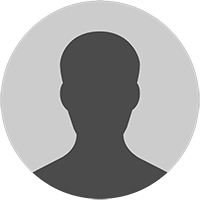
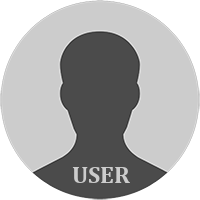
added database models

Changed region(s): [[0.36, 0.81, 0.66, 0.93]]

diff --git a/static/scripts/test.js b/static/scripts/test.js
@@ -100,9 +100,13 @@ function submit() {
       {
        if (radios[j].checked)
        {
-        questions[i][4] = radios[j].value;
-        break;
+         questions[i][4] = radios[j].value;
+         break;
        }
+      }
+      console.log(questions[i][4]);
+      if(questions[i][4] === undefined) {
+        questions[i][4] = "blank";
       }
     }
   }
@@ -122,7 +126,7 @@ function submit() {
   for (var i = 0; i < numOfQuestions; i++) {
     console.log("User answer", i , ": ", questions[i][4]);
   }
-  testQuestions.innerHTML = "<div class=questionContainer id='resultsDiv'><span class='questionHeader'> Your score: " + correct + "/" + numOfQuestions + " </span>" +
+  testQuestions.innerHTML = "<div class=questionContainer id='resultsDiv'><span class='questionHeader'> You got " + correct + " out of " + numOfQuestions + " questions correct. </span>" +
                             "</div>";
 
   var questionObj0 = toObject(questions[0]);

diff --git a/static/scripts/script.js b/static/scripts/script.js
@@ -35,12 +35,26 @@ $(document).ready(function() {
     }
   }
 
-  if(current_user_avatar != "None") {
-    AvatarPic.innerHTML = "<img src=\""+ current_user_avatar +"\">";
+  if(current_user_admin == "True") {
+    if(current_user_avatar != "None") {
+      AvatarPic.innerHTML = "<img class='adminImg' src=\""+ current_user_avatar +"\">";
+    }
+    else if (current_user_avatar == "None") {
+      AvatarPic.innerHTML = "<img class='adminImg' src= \"/static/imgs/admin.png\" >";
+    }
   }
-  else if (current_user_avatar == "None") {
-    AvatarPic.innerHTML = "<img src= \"/static/imgs/user.png\" >";
+
+  else {
+    if(current_user_avatar != "None") {
+      AvatarPic.innerHTML = "<img class='userImg' src=\""+ current_user_avatar +"\">";
+    }
+    else if (current_user_avatar == "None") {
+      AvatarPic.innerHTML = "<img class='userImg' src= \"/static/imgs/user.png\" >";
+    }
   }
+
+
+
 
 
 

diff --git a/templates/account.html b/templates/account.html
@@ -28,7 +28,8 @@
     <div class="topAccInfo">
       <div id="AvatarPic" class="avatarPic"></div>
       <div class = "accountInfo">
-        <h1> {{ current_user.username }} </h1>
+        <h1>Name: {{ current_user.username }} </h1>
+        <h1>Account created: {{ current_user.date }} </h1>
       </div>
       <div class = "accountOptions">
         <button id="passBtn" class="accButton w3-button w3-round-xlarge">Change Password</a>
@@ -82,4 +83,6 @@
   {{ super() }}
   <script src="{{url_for('static', filename='scripts/script.js')}}"></script>
   <script type="text/javascript"> var current_user_avatar = "{{ current_user.avatar_link }}"; </script>
+  <script type="text/javascript"> var current_user_admin = "{{ current_user.is_admin }}"; </script>
+
 {% endblock %}

diff --git a/static/css/styles.css b/static/css/styles.css
@@ -95,6 +95,7 @@ html, body, .all {
 	margin: 0 auto;
 	width: 900px;
 	background-color: white;
+	border-radius: 3px;
 }
 
 .alert-warning {
@@ -755,19 +756,29 @@ box-shadow: none;
 	height: 200px;
 	margin-top: 30px;
 	border-radius: 50%;
+
 }
 
-.avatarPic img {
+.userImg {
 	max-width: 200px;
 	max-height: 200px;
 	min-width: 200px;
 	min-height: 200px;
 	border-radius: 50%;
+	border: #3187DD 5px solid;
+}
+
+.adminImg {
+	max-width: 200px;
+	max-height: 200px;
+	min-width: 200px;
+	min-height: 200px;
+	border-radius: 50%;
+	border: #ff5242 5px solid;
 }
 
 .accountInfo {
 	display: inline-block;
-	background-color: green;
 	width: 400px;
 	height: 100px;
 	vertical-align: top;

diff --git a/project.py b/project.py
@@ -7,7 +7,7 @@ from wtforms.validators import DataRequired, Regexp, EqualTo, Email, ValidationE
 from werkzeug.security import generate_password_hash, check_password_hash
 from flask_login import UserMixin, LoginManager, login_required, login_manager, login_user, logout_user, current_user
 from flask_bootstrap import Bootstrap
-import json
+import json, time, datetime
 
 ###########################################
 ##################CONFIG###################
@@ -31,24 +31,16 @@ login_manager.login_view = 'login.html'
 ##################MODELS###################
 ###########################################
 
-class Role(db.Model):
-    __tablename__ = 'roles'
-    id = db.Column(db.Integer, primary_key=True)
-    username = db.Column(db.String(64), unique=True)
-    users = db.relationship('User', backref='role', lazy='dynamic')
-
-    def __repr__(self):
-        return '<Role %r>' % self.name
-
-
 class User(UserMixin, db.Model):
     __tablename__ = 'users'
     id = db.Column(db.Integer, primary_key=True)
     email = db.Column(db.String(64), unique = True, index = True)
-    username = db.Column(db.String(64), unique=True, index=True)
-    role_id = db.Column(db.Integer, db.ForeignKey('roles.id'))
+    username = db.Column(db.String(64), index=True)
     password_hash = db.Column(db.String(128))
     avatar_link = db.Column(db.String(255))
+    date = db.Column(db.String(64))
+    is_admin = db.Column(db.Boolean)
+    tests = db.relationship('Test', backref='user', lazy='dynamic')
 
     @property
     def password(self):
@@ -64,6 +56,23 @@ class User(UserMixin, db.Model):
     def __repr__(self):
         return '<User %r>' % self.username
 
+class Test(db.Model):
+    __tablename__ = 'tests'
+    id = db.Column(db.Integer, primary_key=True)
+    timestamp = db.Column(db.DateTime, index=True, default=datetime.datetime.now)
+    percentage = db.Column(db.Integer)
+    user_id = db.Column(db.Integer, db.ForeignKey('users.id'))
+    questions = db.relationship('Question', backref='test', lazy='dynamic')
+
+class Question(db.Model):
+    __tablename__ = 'questions'
+    id = db.Column(db.Integer, primary_key=True)
+    question_number = db.Column(db.Integer)
+    question = db.Column(db.Text)
+    correct_answer = db.Column(db.Text)
+    user_answer = db.Column(db.Text)
+    correct = db.Column(db.Boolean)
+    test_id = db.Column(db.Integer, db.ForeignKey('tests.id'))
 
 # db.create_all()
 
@@ -75,10 +84,6 @@ class User(UserMixin, db.Model):
 def index():
     return render_template('index.html')
 
-@app.route('/index', methods=['GET', 'POST'])
-def index2():
-    return render_template('index.html')
-
 @app.route('/learn', methods=['GET', 'POST'])
 def learn():
     return render_template('learn.html')
@@ -87,9 +92,14 @@ def learn():
 def test():
     if request.method == 'POST':
         questions = request.get_json()
+        correct = 0
         for i in range(0, 10):
-            print(questions[i])
-            print("\n")
+            if questions[i]['correct'] == 1:
+                correct += 1
+        test = Test(percentage = correct,
+                    user_id=current_user._get_current_object())
+        db.session.add(Test)
+        db.session.commit()
         return render_template('test.html')
 
     if request.method == 'GET':
@@ -102,7 +112,7 @@ def login():
         user = User.query.filter_by(email = form.email.data).first()
         if user is not None and user.verify_password(form.password.data):
             login_user(user, form.remember_me.data)
-            return redirect(url_for('index'))
+            return redirect(url_for('account'))
         flash('Please provide a valid email or password')
     return render_template('login.html', form=form)
 
@@ -116,10 +126,19 @@ def logout():
 @app.route('/register', methods=['GET', 'POST'])
 def register():
     form = RegisterForm()
+    date = time.strftime("%d/%m/%Y")
+    specialPass = "admin2018"
     if form.validate_on_submit():
+        if form.adminPassword.data == specialPass:
+            admin = 1
+        else:
+            admin = 0
+
         user = User(email=form.email.data,
                     username=form.userName.data,
-                    password=form.password.data)
+                    password=form.password.data,
+                    date=date,
+                    is_admin = admin)
         db.session.add(user)
         db.session.commit()
         flash('Account creation successful')
@@ -177,6 +196,7 @@ class RegisterForm(FlaskForm):
     password = PasswordField('Password', validators=[DataRequired(),
                                                     EqualTo('passwordVal', message='Passwords must match')])
     passwordVal = PasswordField('Confirm password', validators=[DataRequired()])
+    adminPassword = PasswordField('Administrator password')
     submit = SubmitField('Register')
 
     def validate_email(self, field):
